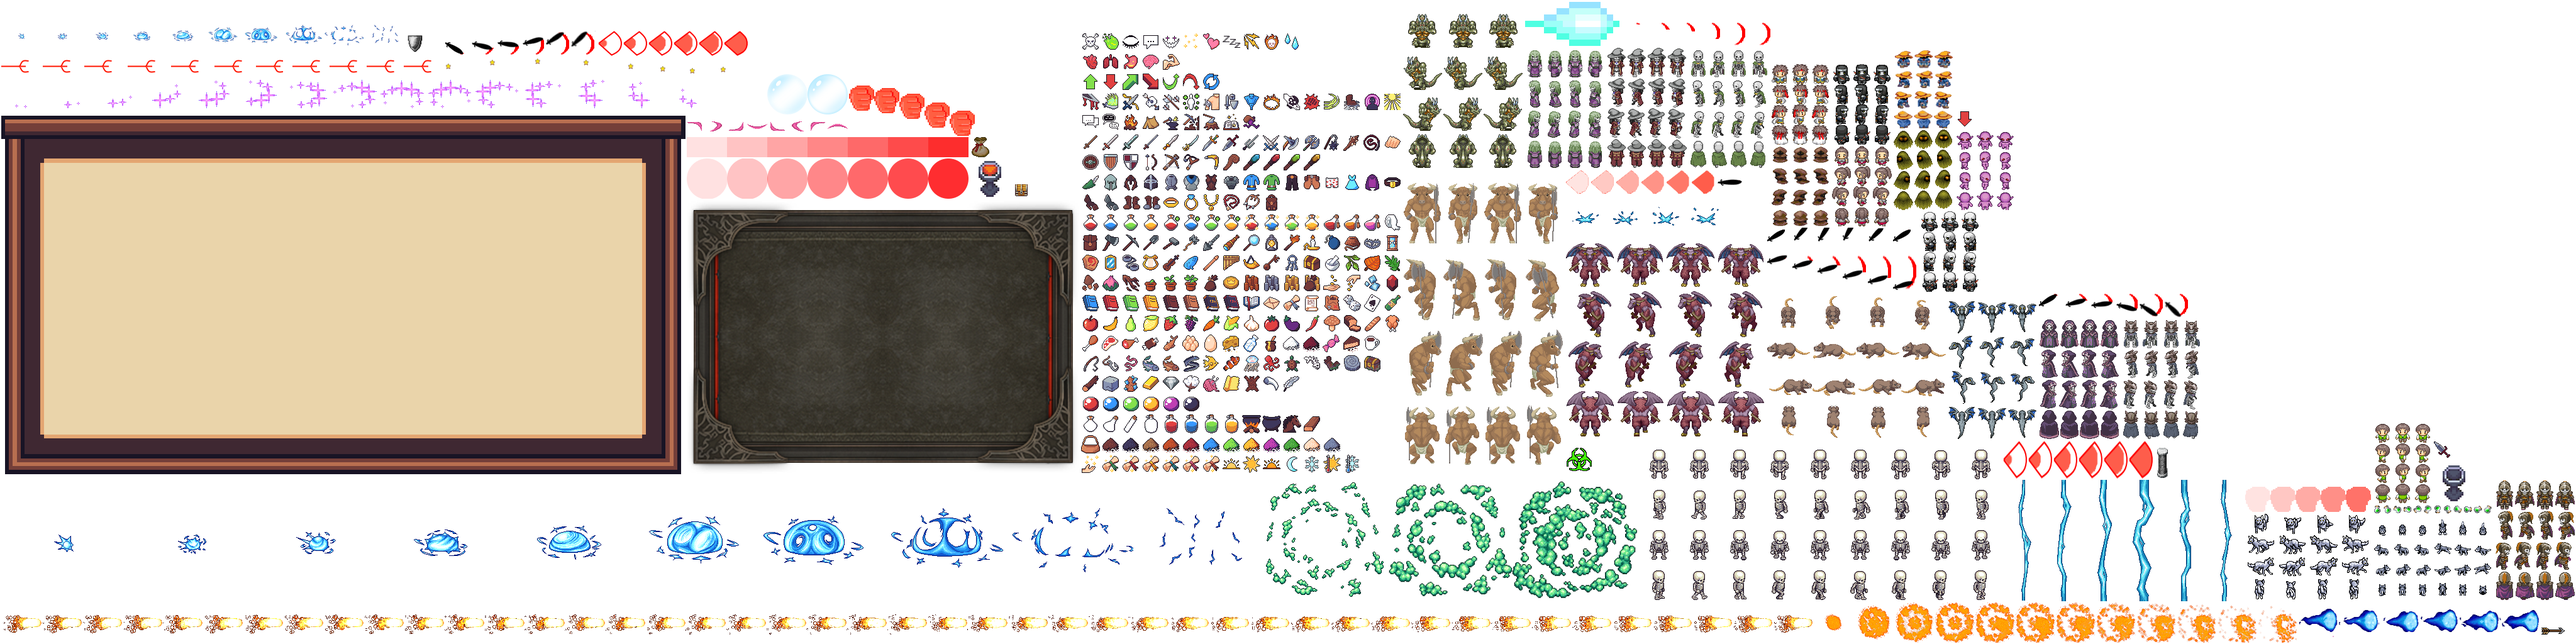
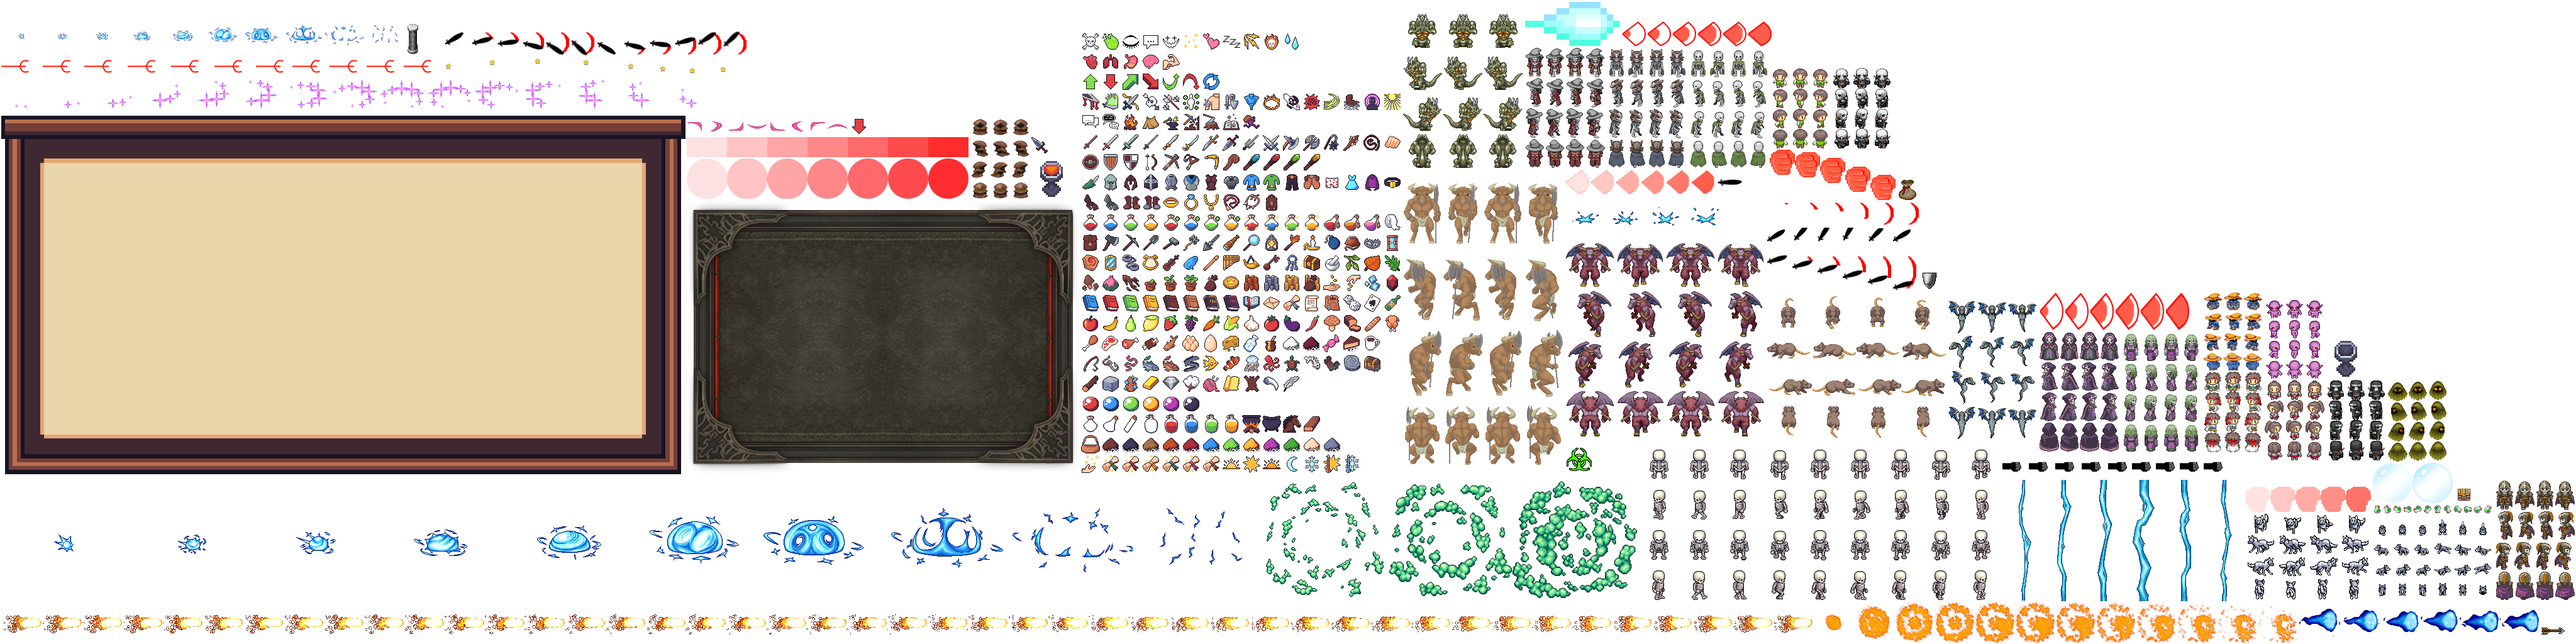
default punch attack

diff --git a/core/src/com/easternsauce/actionrpg/model/skill/Skill.java b/core/src/com/easternsauce/actionrpg/model/skill/Skill.java
@@ -1,5 +1,6 @@
 package com.easternsauce.actionrpg.model.skill;
 
+import com.easternsauce.actionrpg.Constants;
 import com.easternsauce.actionrpg.game.CoreGame;
 import com.easternsauce.actionrpg.model.ability.AbilityId;
 import com.easternsauce.actionrpg.model.ability.AbilityParams;
@@ -80,6 +81,9 @@ public class Skill {
         if (skillType == SkillType.POISONOUS_MIXTURE) {
             return Skill.of(skillType, creatureId, AbilityType.POISONOUS_MIXTURE, SimpleTimer.getExpiredTimer(), 2f, 10f, 35f);
         }
+        if (skillType == SkillType.PUNCH) {
+            return Skill.of(skillType, creatureId, AbilityType.PUNCH, SimpleTimer.getExpiredTimer(), 0.4f, 14f, 0f);
+        }
         throw new RuntimeException("skill not handled");
     }
 
@@ -87,8 +91,8 @@ public class Skill {
         Creature creature = game.getGameState().accessCreatures().getCreature(creatureId);
 
         if (creature != null && creature.canPerformSkill(this, game) && performTimer.getTime() > cooldown &&
-            (!skillType.getIsDamaging() || creature.getParams().getGeneralSkillPerformCooldownTimer().getTime() > 0.8f) &&
-            !creature.isStunned(game)) {
+            (!skillType.getIsDamaging() || creature.getParams().getGeneralSkillPerformCooldownTimer().getTime() >
+                                           Constants.GENERAL_PLAYER_SKILL_PERFORM_COOLDOWN) && !creature.isStunned(game)) {
             creature.getParams().setEnemySkillUseReadyToPick(true);
 
             AbilityId abilityId = AbilityId.of("Ability_" + (int) (Math.random() * 10000000));

diff --git a/core/src/com/easternsauce/actionrpg/model/ability/Punch.java b/core/src/com/easternsauce/actionrpg/model/ability/Punch.java
@@ -10,20 +10,20 @@ import lombok.NoArgsConstructor;
 @NoArgsConstructor(staticName = "of")
 @Data
 @EqualsAndHashCode(callSuper = true)
-public class SwordSlash extends Ability {
+public class Punch extends Ability {
 
     AbilityParams params;
 
-    public static SwordSlash of(AbilityParams abilityParams, @SuppressWarnings("unused") CoreGame game) {
-        SwordSlash ability = SwordSlash.of();
+    public static Punch of(AbilityParams abilityParams, @SuppressWarnings("unused") CoreGame game) {
+        Punch ability = Punch.of();
         ability.params = abilityParams
-            .setWidth(2.5f)
-            .setHeight(2.5f)
-            .setChannelTime(0.15f)
-            .setActiveTime(0.3f)
-            .setRange(1.8f)
-            .setTextureName("slash")
-            .setBaseDamage(22f)
+            .setWidth(1.5f)
+            .setHeight(1.5f)
+            .setChannelTime(0f)
+            .setActiveTime(0.18f)
+            .setRange(1.2f)
+            .setTextureName("punch")
+            .setBaseDamage(7f)
             .setIsChannelAnimationLooping(false)
             .setIsActiveAnimationLooping(false)
             .setRotationShift(0f);
@@ -127,7 +127,7 @@ public class SwordSlash extends Ability {
 
     @Override
     public Float getStunDuration() {
-        return 0.2f;
+        return 0.22f;
     }
 
     @Override

diff --git a/core/src/com/easternsauce/actionrpg/renderer/util/GameplayRendererHelper.java b/core/src/com/easternsauce/actionrpg/renderer/util/GameplayRendererHelper.java
@@ -24,6 +24,8 @@ public class GameplayRendererHelper {
             renderAreaLayers(renderer, Arrays.asList(2, 3), game);
         }
 
+        renderAbilities(renderer, worldElementsRenderingLayer, game);
+
         game.renderB2BodyDebug();
     }
 
@@ -35,7 +37,7 @@ public class GameplayRendererHelper {
         renderer.renderDeadCreatures(worldElementsRenderingLayer, game);
         renderer.renderLootPiles(worldElementsRenderingLayer, game);
         renderer.renderAliveCreatures(worldElementsRenderingLayer, game);
-        renderer.renderAbilities(worldElementsRenderingLayer, game);
+        //renderer.renderAbilities(worldElementsRenderingLayer, game);
 
         worldElementsRenderingLayer.end();
     }
@@ -51,5 +53,13 @@ public class GameplayRendererHelper {
         renderer.renderPlayerNames(worldTextRenderingLayer, game);
 
         worldTextRenderingLayer.end();
+    }
+
+    private static void renderAbilities(GameEntityRenderer renderer, RenderingLayer worldElementsRenderingLayer, CoreGame game) {
+        worldElementsRenderingLayer.begin();
+
+        renderer.renderAbilities(worldElementsRenderingLayer, game);
+
+        worldElementsRenderingLayer.end();
     }
 }

diff --git a/core/src/com/easternsauce/actionrpg/game/CoreGameClient.java b/core/src/com/easternsauce/actionrpg/game/CoreGameClient.java
@@ -214,8 +214,8 @@ public class CoreGameClient extends CoreGame {
             weaponDamage = weaponItem.getDamage();
         }
         else {
-            attackSkill = SkillType.SWORD_SLASH;
-            weaponDamage = 20f;
+            attackSkill = SkillType.PUNCH;
+            weaponDamage = 0f; // weapon damage doesn't apply
         }
         getEndPoint().sendTCP(ActionPerformCommand.of(SkillTryPerformAction.of(getGameState().getThisClientPlayerId(),
                                                                                attackSkill,

diff --git a/core/src/com/easternsauce/actionrpg/util/EndPointHelper.java b/core/src/com/easternsauce/actionrpg/util/EndPointHelper.java
@@ -95,6 +95,7 @@ public class EndPointHelper {
         endPoint.getKryo().register(PoisonousCloud.class);
         endPoint.getKryo().register(PoisonousMixture.class);
         endPoint.getKryo().register(SpreadingPoisonousCloud.class);
+        endPoint.getKryo().register(Punch.class);
 
         endPoint.getKryo().register(Enemy.class);
         endPoint.getKryo().register(Area.class);

diff --git a/core/src/com/easternsauce/actionrpg/renderer/creature/CreatureStunnedAnimationRenderer.java b/core/src/com/easternsauce/actionrpg/renderer/creature/CreatureStunnedAnimationRenderer.java
@@ -29,7 +29,7 @@ public class CreatureStunnedAnimationRenderer {
             frames[i] = (new TextureRegion(stunnedAnimationTextureRegion, i * 60, 0, 60, 30));
         }
 
-        this.stunnedAnimation = new Animation<>(0.035f, frames);
+        this.stunnedAnimation = new Animation<>(0.045f, frames);
     }
 
     private TextureRegion getStunnedAnimationFrame(CoreGame game) {

diff --git a/core/src/com/easternsauce/actionrpg/model/ability/AbilityFactory.java b/core/src/com/easternsauce/actionrpg/model/ability/AbilityFactory.java
@@ -60,6 +60,8 @@ public class AbilityFactory {
                 return PoisonousCloud::of;
             case SPREADING_POISONOUS_CLOUD:
                 return SpreadingPoisonousCloud::of;
+            case PUNCH:
+                return Punch::of;
             default:
                 throw new RuntimeException("ability type not found: " + abilityType);
         }

diff --git a/core/src/com/easternsauce/actionrpg/Constants.java b/core/src/com/easternsauce/actionrpg/Constants.java
@@ -25,4 +25,5 @@ public class Constants {
     public static final float ENEMY_SEARCH_DISTANCE = 18f;
     public static final float PREVENT_ENEMY_RESPAWN_DISTANCE = 32f;
     public static final float ENEMY_ATTACK_COOLDOWN_TIMER = 2.5f;
+    public static final float GENERAL_PLAYER_SKILL_PERFORM_COOLDOWN = 0.3f;
 }

diff --git a/core/src/com/easternsauce/actionrpg/renderer/config/AbilityAnimationConfig.java b/core/src/com/easternsauce/actionrpg/renderer/config/AbilityAnimationConfig.java
@@ -50,6 +50,8 @@ public class AbilityAnimationConfig {
 
         configs.put("warp", AbilityAnimationConfig.of(76, 53, "warp", "warp", 0, 16, 0f, 0.04f, 1f));
 
+        configs.put("punch", AbilityAnimationConfig.of(40, 40, "punch", "punch", 0, 9, 0f, 0.02f, 1f));
+
     }
 
     Integer textureWidth;

diff --git a/core/src/com/easternsauce/actionrpg/model/skill/SkillType.java b/core/src/com/easternsauce/actionrpg/model/skill/SkillType.java
@@ -32,7 +32,9 @@ public enum SkillType {
 
     TELEPORT("Teleport", false),
 
-    POISONOUS_MIXTURE("Poisonous Mixture", false);
+    POISONOUS_MIXTURE("Poisonous Mixture", false),
+
+    PUNCH("Punch", true);
 
     @Getter
     private String prettyName;

diff --git a/core/src/com/easternsauce/actionrpg/model/ability/AbilityType.java b/core/src/com/easternsauce/actionrpg/model/ability/AbilityType.java
@@ -44,5 +44,7 @@ public enum AbilityType {
 
     POISONOUS_MIXTURE,
     POISONOUS_CLOUD,
-    SPREADING_POISONOUS_CLOUD
+    SPREADING_POISONOUS_CLOUD,
+
+    PUNCH,
 }
